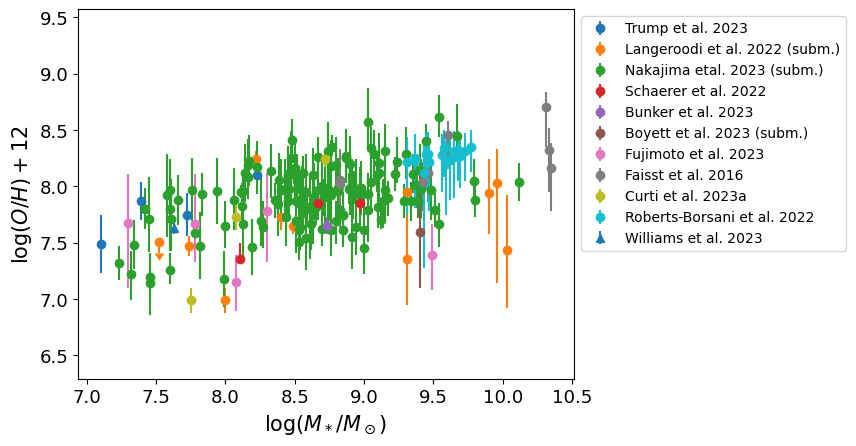
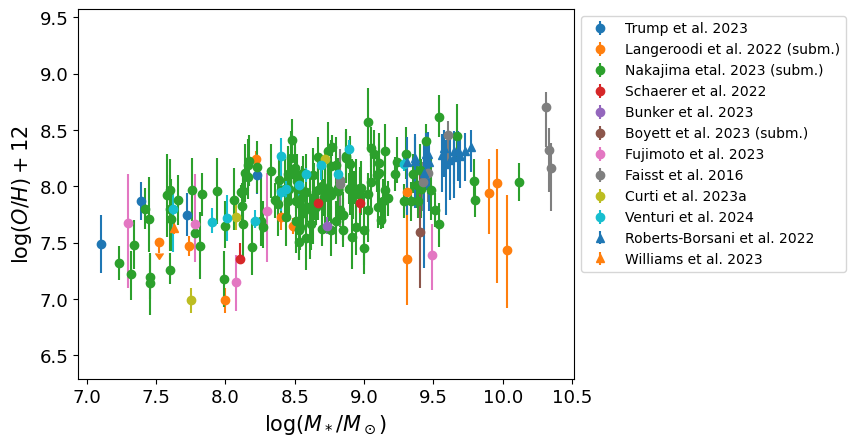
new data

diff --git a/corecon/data/mass_gas_metallicity_relation/Venturi_et_al_2024.py b/corecon/data/mass_gas_metallicity_relation/Venturi_et_al_2024.py
@@ -1,0 +1,47 @@
+dictionary_tag         = "Venturi et al. 2024"
+
+reference              = "G. Venturi, S. Carniani, E. Parlanti, M. Kohandel, M. Curti, et al., (subm.)"
+
+url                    = "https://ui.adsabs.harvard.edu/abs/2024arXiv240303977V/abstract"
+
+description            = \
+"""
+spatially resolved metallicity in three systems at z~6-8 with JWST NIRSpec IFU low-resolution (R ∼ 100) spectroscopic observations
+"""
+
+data_structure         = "points" #grid or points
+
+extracted              = False
+
+ndim                   = 2
+
+dimensions_descriptors = ["redshift", "log stellar mass [Msun]"]
+
+axes                   = [[7.879, 8.69], [7.880, 8.40], [7.881, 7.83], [7.877, 7.82], [7.872, 7.58], [7.883, 8.58], [7.882, 8.44], [7.878, 8.01],
+                          [7.114, 7.90], [7.114, 8.21], [7.112, 7.62], [6.361, 9.29], [6.358, 8.81], [6.359, 8.89], [6.362, 8.53], [6.356, 8.40]]
+
+err_right              = [[0.0, 0.18], [0.0, 0.27], [0.0, 0.46], [0.0, 0.41], [0.0, 0.18], [0.0, 0.28], [0.0, 0.43], [0.0, 0.28],
+                          [0.0, 0.25], [0.0, 0.30], [0.0, 0.44], [0.0, 0.09], [0.0, 0.11], [0.0, 0.10], [0.0, 0.30], [0.0, 0.72]]
+
+err_left               = [[0.0, 0.17], [0.0, 0.13], [0.0, 0.22], [0.0, 0.48], [0.0, 0.37], [0.0, 0.19], [0.0, 0.23], [0.0, 0.47], 
+                          [0.0, 0.13], [0.0, 0.11], [0.0, 0.14], [0.0, 0.08], [0.0, 0.17], [0.0, 0.06], [0.0, 0.22], [0.0, 0.32]]
+
+values                 = [8.19, 8.27, None, None, None, 8.11, 7.98, 7.72, 7.68, 7.69, 7.80, 8.20, 8.11, 8.33, 8.01, 7.95]
+
+err_up                 = [0.09, 0.16, None, None, None, 0.05, 0.07, 0.20, 0.13, 0.10, 0.15, 0.05, 0.04, 0.08, 0.08, 0.14]
+
+err_down               = [0.13, 0.20, None, None, None, 0.07, 0.09, 0.20, 0.09, 0.06, 0.38, 0.06, 0.07, 0.10, 0.12, 0.17]
+
+upper_lim              = False
+
+lower_lim              = False
+
+SFR                    = [2.2, 1.0, 0.87, 1.1, 1.1, 2.85, 2.02, 1.09, 3.47, 4.2, 1.5, 14.4, 9.8, 1.74, 14.5, 3.43]
+
+err_down_SFR           = [0.2, None, None, None, None, 0.18, 0.13, 0.16, 0.13, 0.2, 0.2, 1.3, 0.3, 0.09, 1.3, 0.11]
+
+err_up_SFR             = [0.2, None, None, None, None, 0.18, 0.13, 0.16, 0.13, 0.2, 0.2, 1.3, 0.3, 0.09, 1.3, 0.11]
+
+upper_lim_SFR          = [False, True, True, True, True, False, False, False, False, False, False, False, False, False, False, False]
+
+lower_lim_SFR          = [False, False, False, False, False, False, False, False, False, False, False, False, False, False, False, False]

diff --git a/docs/datarst/mass_gas_metallicity_relation.rst b/docs/datarst/mass_gas_metallicity_relation.rst
@@ -85,6 +85,12 @@ Data
 
    <a href="https://ui.adsabs.harvard.edu/abs/2023ApJ...945...35T/abstract" target="_blank">Trump et al. 2023</a>
 
+|Venturi et al. 2024|
+
+.. |Venturi et al. 2024| raw:: html
+
+   <a href="https://ui.adsabs.harvard.edu/abs/2024arXiv240303977V/abstract" target="_blank">Venturi et al. 2024</a>
+
 |Williams et al. 2023|
 
 .. |Williams et al. 2023| raw:: html
